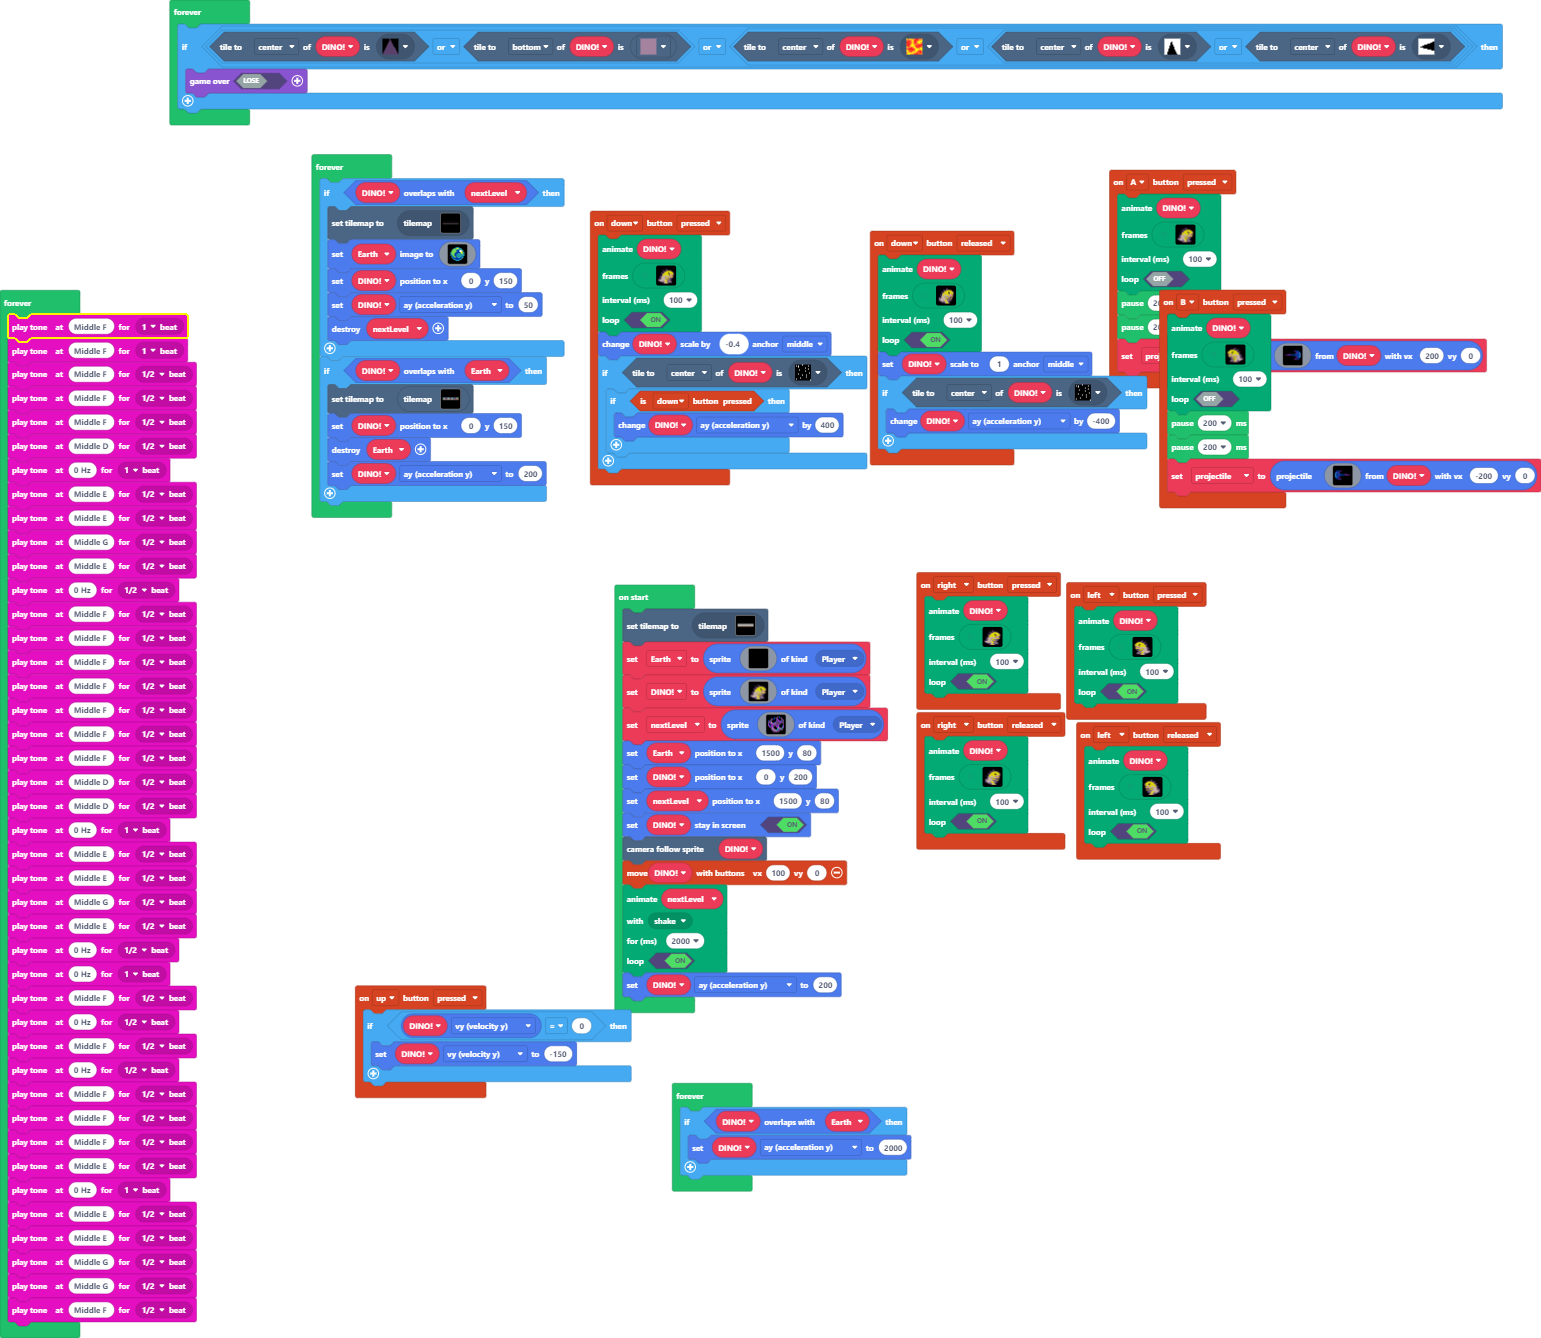
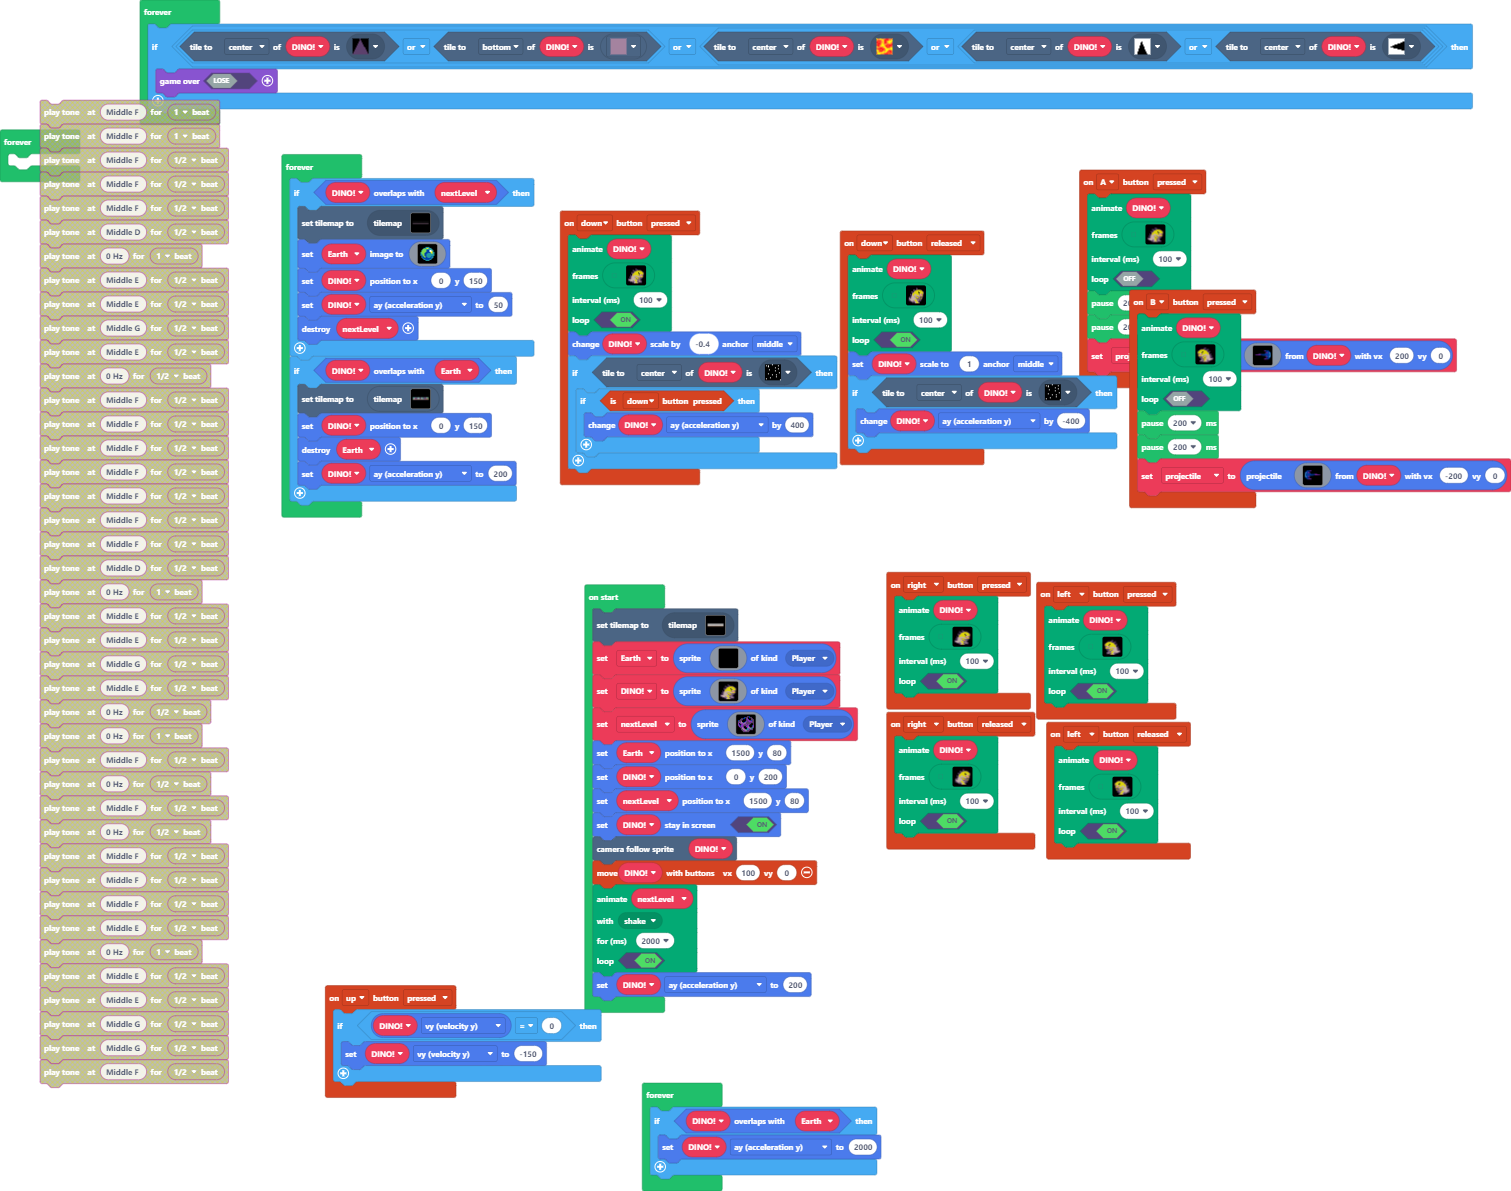
shots on iphone done

diff --git a/main.ts b/main.ts
@@ -1028,6 +1028,9 @@ forever(function () {
     }
 })
 forever(function () {
+	
+})
+forever(function () {
     if (DINO.overlapsWith(nextLevel)) {
         tiles.setCurrentTilemap(tilemap`level5`)
         Earth.setImage(img`
@@ -1058,50 +1061,6 @@ forever(function () {
         Earth.destroy()
         DINO.ay = 200
     }
-})
-forever(function () {
-    music.playTone(349, music.beat(BeatFraction.Whole))
-    music.playTone(349, music.beat(BeatFraction.Whole))
-    music.playTone(349, music.beat(BeatFraction.Half))
-    music.playTone(349, music.beat(BeatFraction.Half))
-    music.playTone(349, music.beat(BeatFraction.Half))
-    music.playTone(294, music.beat(BeatFraction.Half))
-    music.playTone(0, music.beat(BeatFraction.Whole))
-    music.playTone(330, music.beat(BeatFraction.Half))
-    music.playTone(330, music.beat(BeatFraction.Half))
-    music.playTone(392, music.beat(BeatFraction.Half))
-    music.playTone(330, music.beat(BeatFraction.Half))
-    music.playTone(0, music.beat(BeatFraction.Half))
-    music.playTone(349, music.beat(BeatFraction.Half))
-    music.playTone(349, music.beat(BeatFraction.Half))
-    music.playTone(349, music.beat(BeatFraction.Half))
-    music.playTone(349, music.beat(BeatFraction.Half))
-    music.playTone(349, music.beat(BeatFraction.Half))
-    music.playTone(349, music.beat(BeatFraction.Half))
-    music.playTone(349, music.beat(BeatFraction.Half))
-    music.playTone(294, music.beat(BeatFraction.Half))
-    music.playTone(294, music.beat(BeatFraction.Half))
-    music.playTone(0, music.beat(BeatFraction.Whole))
-    music.playTone(330, music.beat(BeatFraction.Half))
-    music.playTone(330, music.beat(BeatFraction.Half))
-    music.playTone(392, music.beat(BeatFraction.Half))
-    music.playTone(330, music.beat(BeatFraction.Half))
-    music.playTone(0, music.beat(BeatFraction.Half))
-    music.playTone(0, music.beat(BeatFraction.Whole))
-    music.playTone(349, music.beat(BeatFraction.Half))
-    music.playTone(0, music.beat(BeatFraction.Half))
-    music.playTone(349, music.beat(BeatFraction.Half))
-    music.playTone(0, music.beat(BeatFraction.Half))
-    music.playTone(349, music.beat(BeatFraction.Half))
-    music.playTone(349, music.beat(BeatFraction.Half))
-    music.playTone(349, music.beat(BeatFraction.Half))
-    music.playTone(330, music.beat(BeatFraction.Half))
-    music.playTone(0, music.beat(BeatFraction.Whole))
-    music.playTone(330, music.beat(BeatFraction.Half))
-    music.playTone(330, music.beat(BeatFraction.Half))
-    music.playTone(392, music.beat(BeatFraction.Half))
-    music.playTone(392, music.beat(BeatFraction.Half))
-    music.playTone(349, music.beat(BeatFraction.Half))
 })
 forever(function () {
     if (DINO.overlapsWith(Earth)) {
